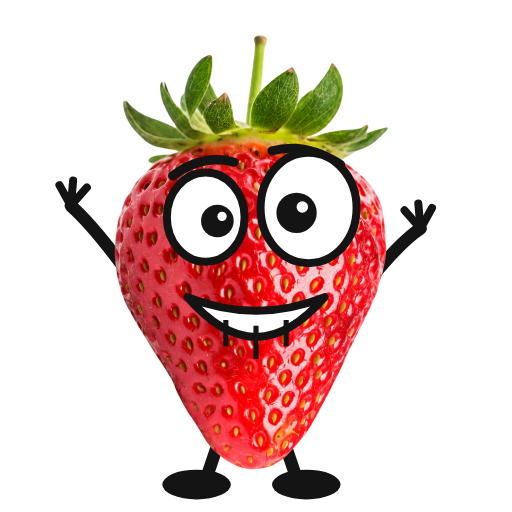
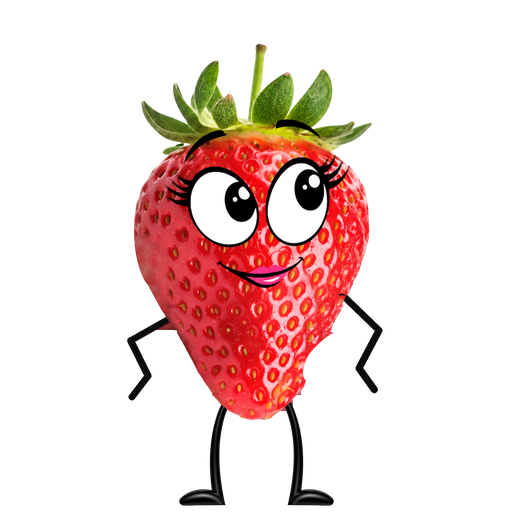
Freebie glow-up: Ms. Straw-ccato and Jalapresto get their workshop looks
The two free band members are replaced with the founder's new art,
workshopped 2026-11-05 in the 05 - Design chat. Jalapresto ships as
she composited him: mustache, buck teeth, elbows-out akimbo arms,
glossy shoes. The strawberry — renamed Ms. Straw-ccato in the band
roster — keeps her lashes, lips and hip-sway, with her limbs redrawn
in Jalapresto's stroke style: three-segment down-swept arms with a
hand flick, skinny legs, glossy shoes. No gloves anywhere, by founder
decision after reviewing the white-glove minstrel-lineage question.
Her transparent eye whites are filled opaque so tinted cards don't
bleed through; silhouette nicks from the old thick limbs are healed.

Design pass only: two 512px RGBA assets + one display-name string.
No layout, logic, or test changes.

Claude-Session: https://claude.ai/code/session_01QFxDJg41b2sgBigVhhRjMa

Changed region(s): [[0.0938, 0.0625, 0.8438, 1.0]]

diff --git a/app/lib/screens/ensemble/my_ensemble_screen.dart b/app/lib/screens/ensemble/my_ensemble_screen.dart
@@ -64,7 +64,7 @@ class _MyEnsembleScreenState extends ConsumerState<MyEnsembleScreen>
     final wornKey = (active['avatar_key'] as String?) ?? 'jalapeno';
     final purchases = ref.watch(purchasesProvider(sid)).valueOrNull ?? [];
     // Every kid's band starts with both freebies (Tour 2.0 interim,
-    // founder-directed 2026-11-05): Jalapresto + Strawberry Staccato.
+    // founder-directed 2026-11-05): Jalapresto + Ms. Straw-ccato.
     final owned = <String>['jalapeno', 'strawberry'];
     for (final p in purchases) {
       final item = p['market_items'] as Map<String, dynamic>?;

diff --git a/app/lib/models/market_avatars.dart b/app/lib/models/market_avatars.dart
@@ -4,7 +4,7 @@
 const musicalAvatars =
     <String, ({String name, String description, String emoji})>{
   'strawberry': (
-    name: 'Strawberry Staccato',
+    name: 'Ms. Straw-ccato',
     description: 'Short and sweet!',
     emoji: '🍓'
   ),
